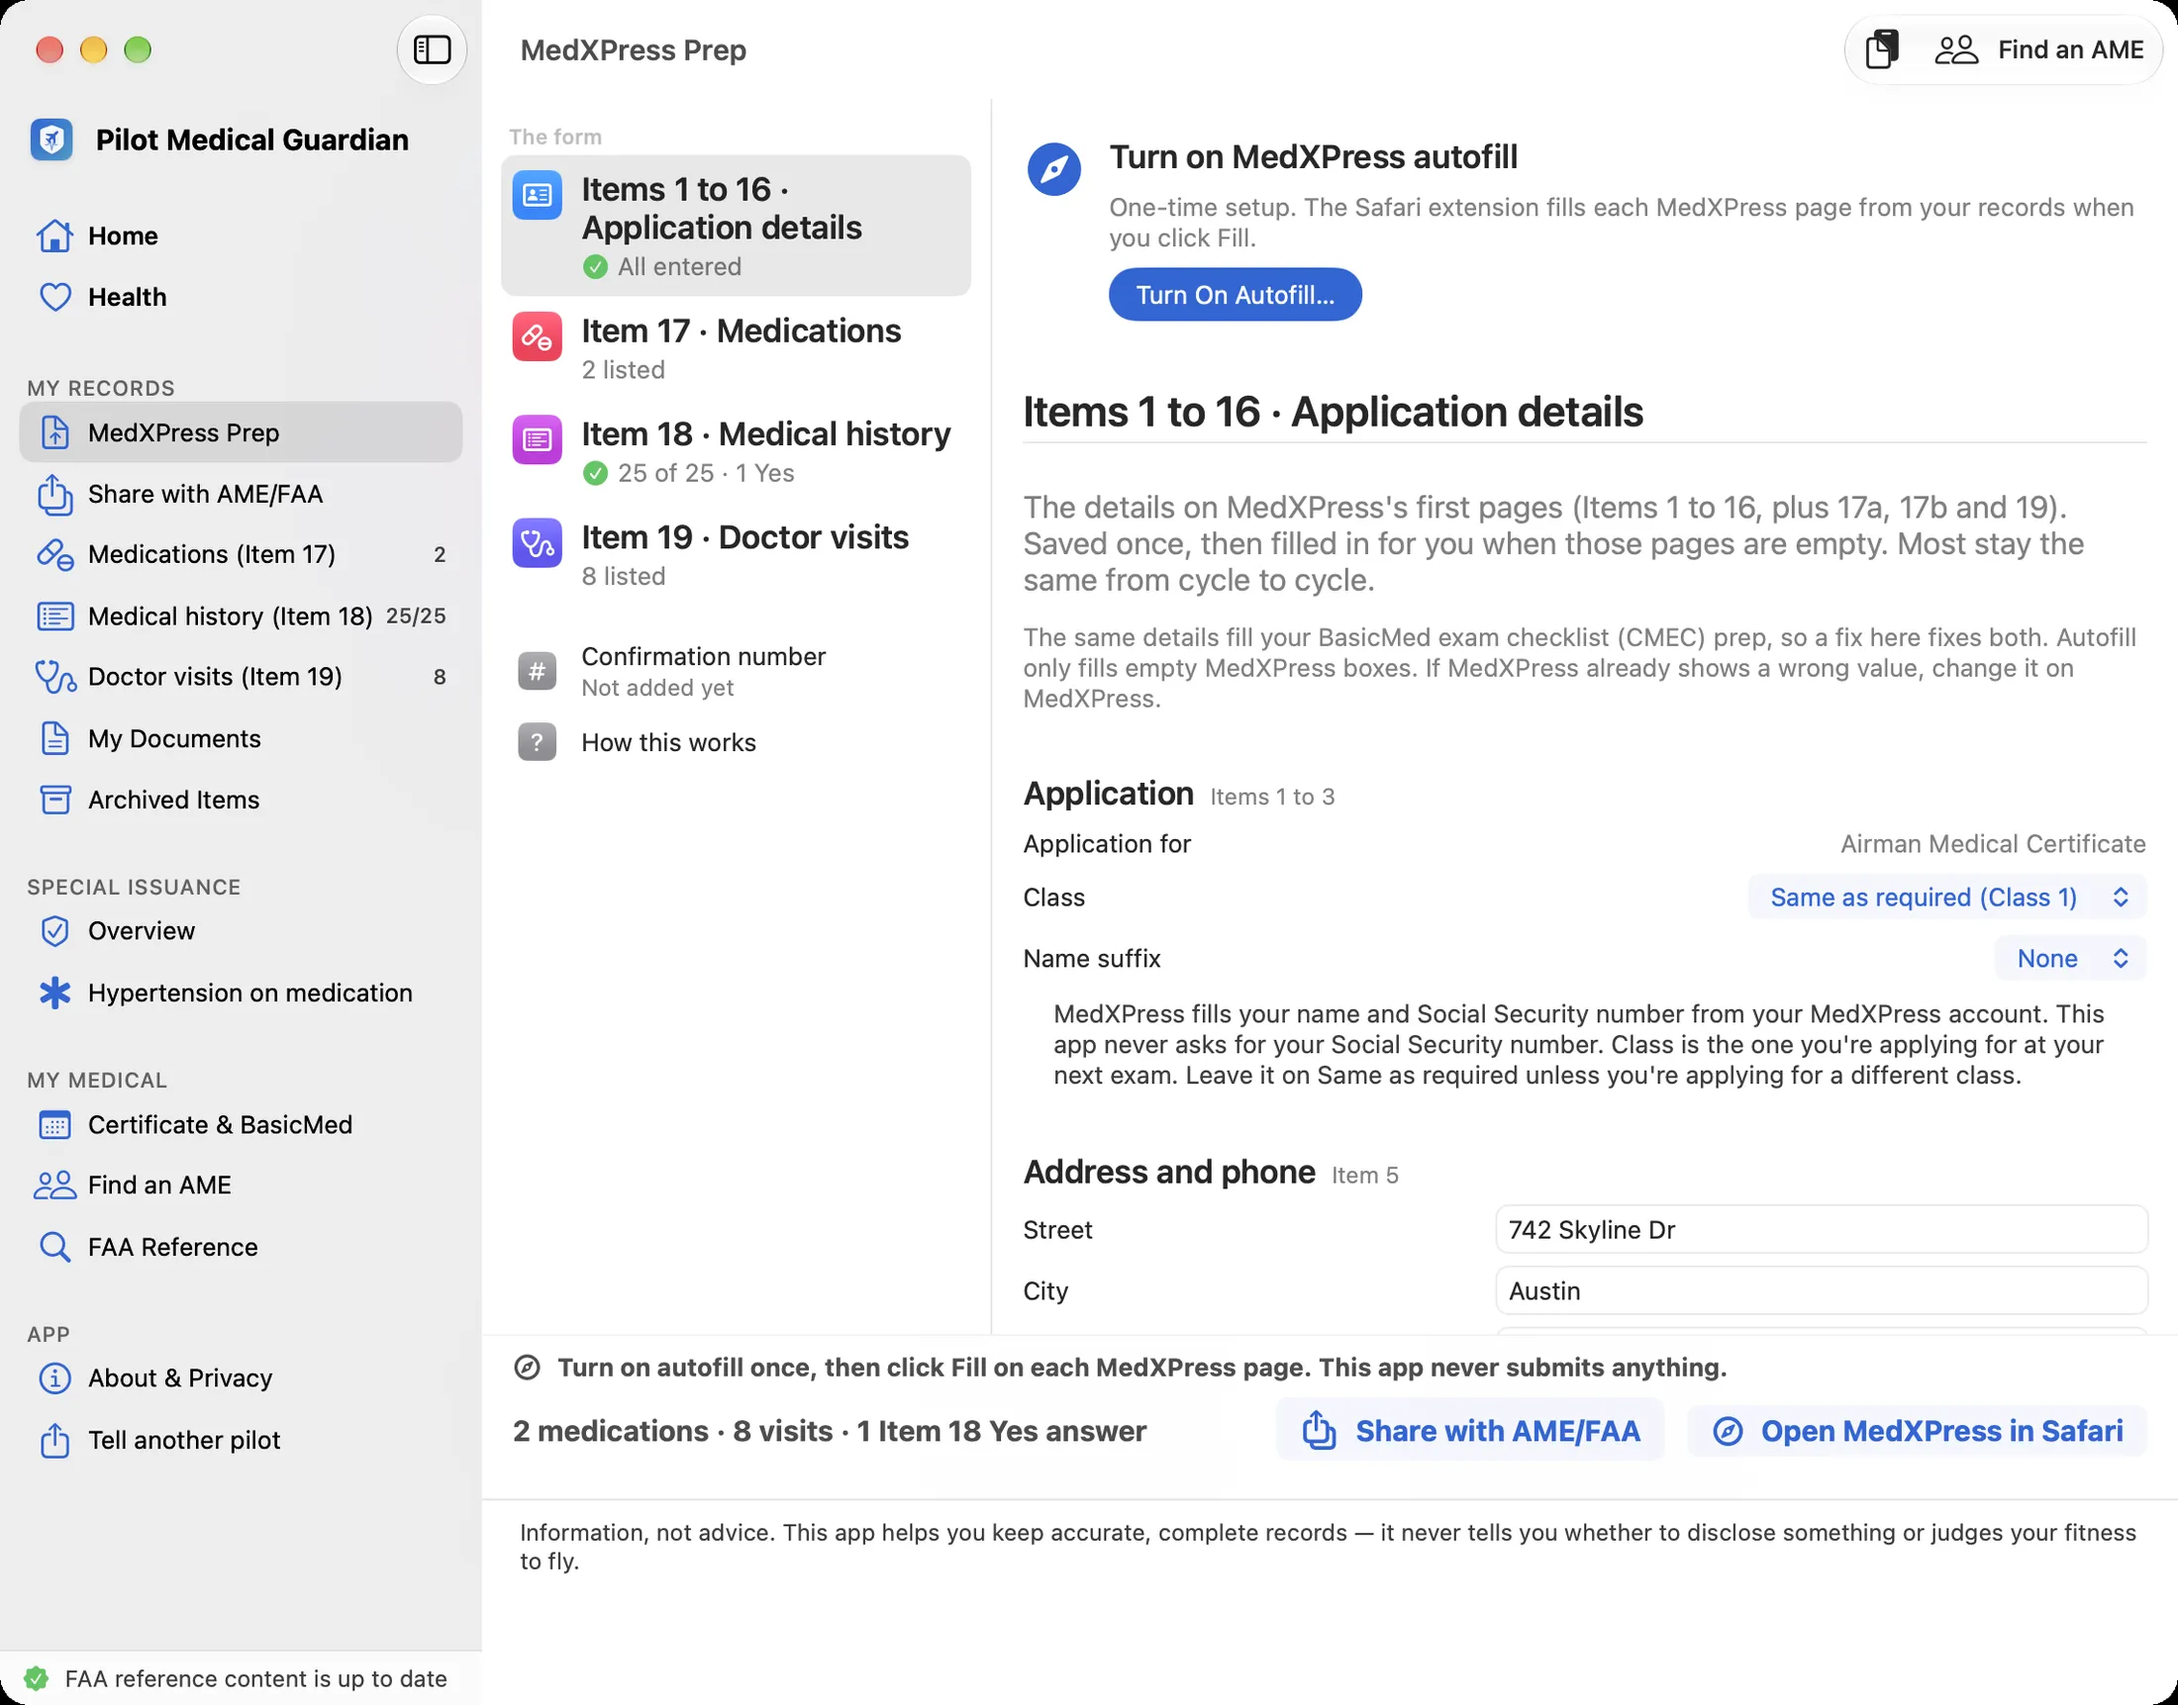
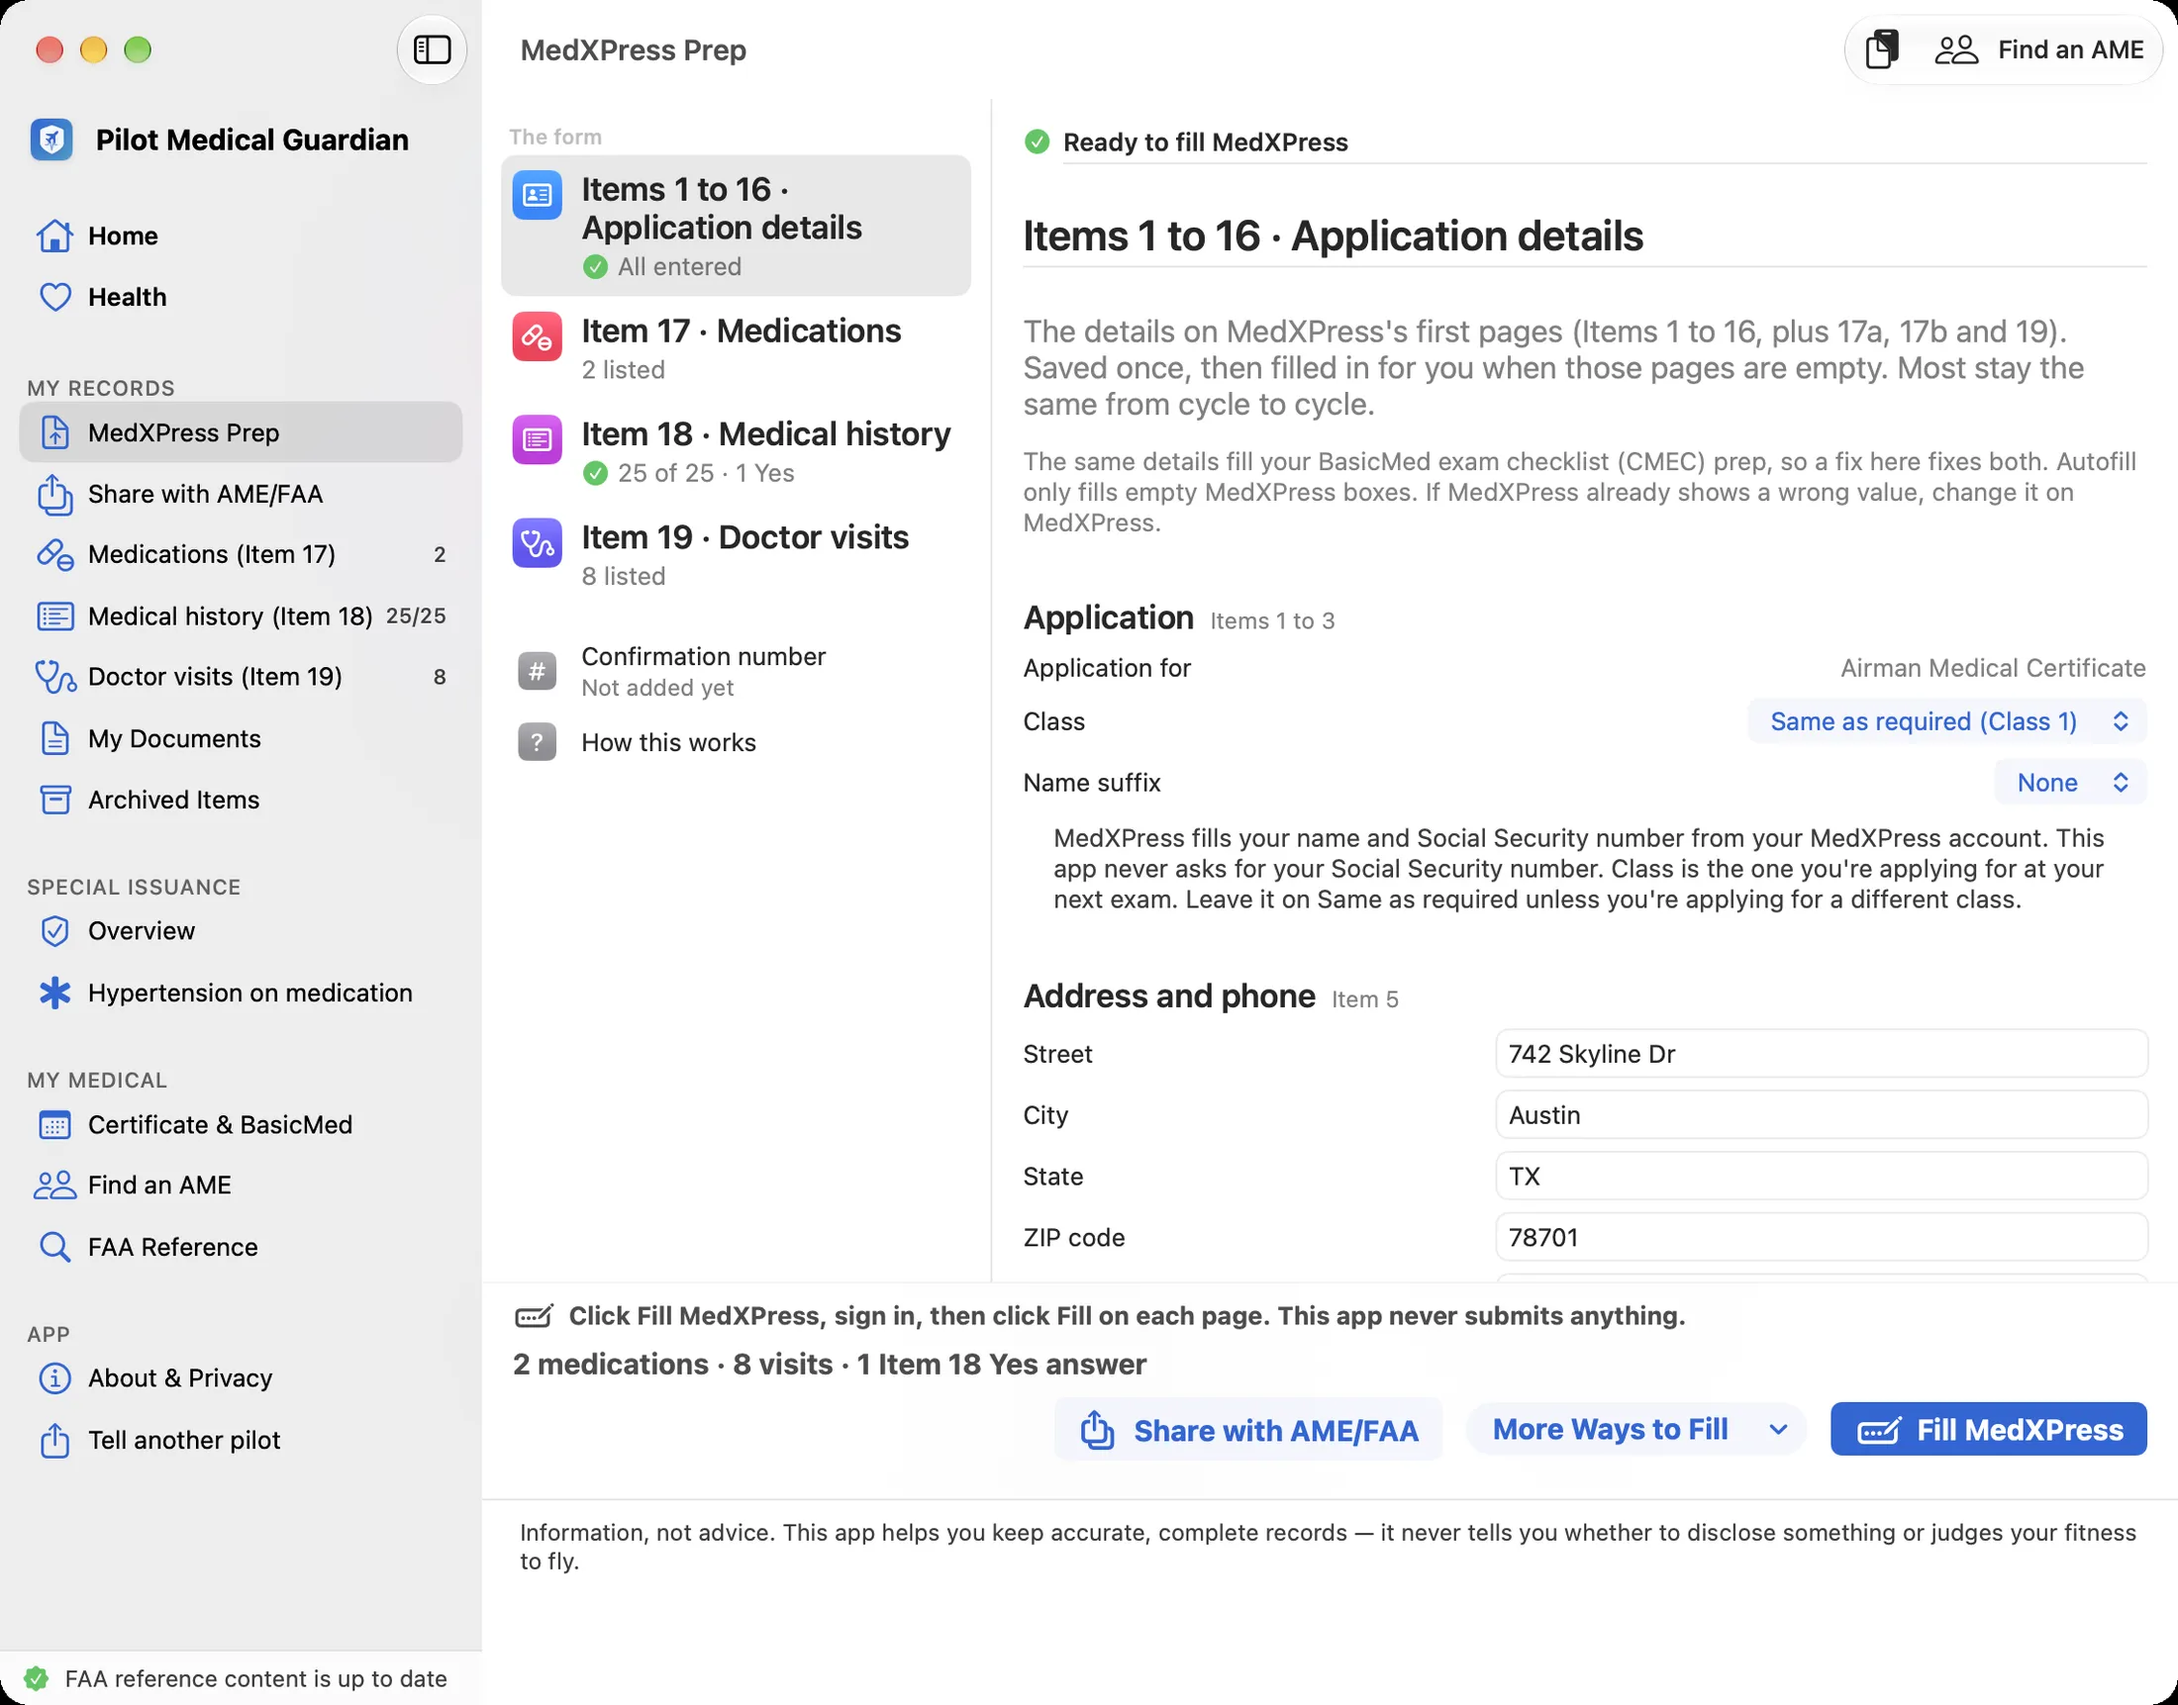
STAGED day one if Mac 1.4.0 is approved first (automatic release; Hub 11/23): privacy in-app card + RevenueCat line, FAQ logout answer, whats-new in-app entry scoped to Mac 1.4.0, that platform's screenshot only. Rest of the site stays Safari-first (still true on both) until both are live, then inap

Changed region(s): [[0.2164, 0.0615, 0.9891, 0.8613]]

diff --git a/privacy.html b/privacy.html
@@ -107,6 +107,11 @@
     </div>
 
     <div class="card">
+      <h3>MedXPress inside the app</h3>
+      <p>Fill MedXPress opens the FAA's own MedXPress website inside the app. You sign in on the FAA's page. Your password goes to the FAA. The app does not read or keep it. When you use Fill from Pilot Medical Guardian on a MedXPress page, the fill script runs on your device. It reads your already-saved records from the app's storage on your device and writes them into the MedXPress form fields. <strong>Nothing is sent to me.</strong> Your MedXPress sign-in, cookies and site storage stay in memory only. They are never saved to your device, and they end when you quit the app or use Erase All Data. Tapping Done does not sign you out. The fill script adds no network requests to the MedXPress page. The FAA page makes the same requests it makes in Safari, including services the FAA itself uses.</p>
+    </div>
+
+    <div class="card">
       <h3>Safari Web Extension (MedXPress autofill)</h3>
       <p>When you enable PMG's optional Safari extension, it runs <strong>only on medxpress.faa.gov</strong>. The extension reads your already-saved records (medications, doctor visits, medical history answers, and the application details you enter for MedXPress's first pages, such as address, phone, date of birth, certificates and flight time) from the same on-device storage as the main app, through Apple's shared App Group mechanism. Your data never transits any server. It writes those records into MedXPress's form fields so you don't have to retype them at every renewal. You can disable the extension any time in Safari's settings; the main app keeps working without it. The extension itself uses no analytics, sends nothing to me, and connects to no third-party service. It only reads your already-saved records and writes them into the MedXPress form fields.</p>
     </div>
@@ -128,7 +133,7 @@
 
     <div class="card">
       <h3>No tracking, no ads, no selling in the app</h3>
-      <p>The app has no advertising and no tracking, and I never sell your data. Not now, not ever. The only outside code in the app is RevenueCat, which runs the Guardian Pro subscription: it receives an anonymous "is this device subscribed?" signal (never any health content, and nothing that identifies you) so Pro unlocks, renewals work, and I can see anonymous, aggregate subscription numbers. That's the one thing the App Store lists as collected. See "Subscriptions &amp; payments" below for exactly what it is and isn't.</p>
+      <p>The app has no advertising and no tracking, and I never sell your data. Not now, not ever. The only outside code built into the app is RevenueCat, which runs the Guardian Pro subscription: it receives an anonymous "is this device subscribed?" signal (never any health content, and nothing that identifies you) so Pro unlocks, renewals work, and I can see anonymous, aggregate subscription numbers. That's the one thing the App Store lists as collected. See "Subscriptions &amp; payments" below for exactly what it is and isn't. When you open MedXPress inside the app, the FAA's page runs the same code it runs in Safari.</p>
       <p><strong>This website</strong>, separate from the app, counts page views using <strong>Cloudflare Web Analytics</strong>. It's cookieless, doesn't follow you across other sites, and doesn't build a profile of you. It tells me which pages get read and roughly what country a visit came from; nothing that identifies you, and it has no access to anything in the app.</p>
       <p style="margin-bottom:0">I'm also running a small paid-search test to see whether ads are a sensible way to reach pilots, so this website currently loads <strong>Google's advertising tag</strong> as well. I'd rather tell you than have you find it. Unlike the Cloudflare counter, it does set cookies and it does let Google connect a visit here to an ad click. That is ordinary ad measurement, and it is the one thing on this site that follows you across sites. It sees pages and clicks on this website only. It has no access to anything in the app, and there is nothing about your health, medications, conditions or documents on this website for it to see: those live on your device and your own iCloud and never reach any web page. If I stop the test, the tag comes off and this paragraph goes with it.</p>
     </div>

diff --git a/index.html b/index.html
@@ -644,10 +644,10 @@
       <div class="section-head">
         <span class="eyebrow">Now on Mac</span>
         <h2>MedXPress is a desktop form. Now there's a Mac app for it.</h2>
-        <p>Most pilots fill out MedXPress sitting at a computer. The Mac app puts your records on that same machine: open the form in Safari, click Fill on each page, and your application details, medications, Item 18 answers and doctor visits drop into the form. You review every line and submit it yourself. On a Windows PC, the Chrome or Edge extension does the same with Guardian Pro (<a href="#windows">below</a>).</p>
+        <p>Most pilots fill out MedXPress sitting at a computer. The Mac app puts your records on that same machine: click Fill MedXPress to open the form inside the app (Safari works too), click Fill on each page, and your application details, medications, Item 18 answers and doctor visits drop into the form. You review every line and submit it yourself. On a Windows PC, the Chrome or Edge extension does the same with Guardian Pro (<a href="#windows">below</a>).</p>
       </div>
       <figure class="macshot">
-        <img src="/screenshots/mac-medxpress.webp?v=20261120" width="2200" height="1723" loading="lazy" decoding="async" alt="Pilot Medical Guardian on macOS showing the MedXPress Prep screen, with the sidebar at left, the Items 1 to 16 tab open on application details and address, and tabs for Items 17, 18 and 19">
+        <img src="/screenshots/mac-medxpress.webp?v=20261122" width="2200" height="1723" loading="lazy" decoding="async" alt="Pilot Medical Guardian on macOS showing the MedXPress Prep screen, with the sidebar at left, the Items 1 to 16 tab open on application details and address, and tabs for Items 17, 18 and 19">
       </figure>
       <div class="macgrid">
         <div class="maccard">

diff --git a/whats-new.html b/whats-new.html
@@ -92,6 +92,7 @@
       <h3>Now in the app</h3>
       <p class="pro-note">Most of this is free: your renewal countdown and reminders, unlimited record-keeping (application details, medications, Item 18 answers, doctor visits), the medication reference, Health, and the AME directory. Your first MedXPress autofill is free for 7 days from your first Fill. After that, autofill every renewal is part of Guardian Pro. The items marked <span class="pro-tag">Guardian Pro</span> are part of the optional subscription.</p>
       <ul>
+        <li><strong>Fill MedXPress, right in the app:</strong> <span class="pro-tag">Guardian Pro</span> one button, Fill MedXPress, opens the FAA's MedXPress site inside the app and fills the form from your records. Nothing to set up first. You sign in on the FAA's page, review every answer and submit it yourself. Safari still works: Fill in Safari is the first choice under More ways to fill, after its one-time setup. On Mac, from version 1.4.0.</li>
         <li><strong>Import your last application:</strong> choose the PDF MedXPress gave you when you submitted, from MedXPress Prep on iPhone and iPad or File &gt; Import MedXPress Application on Mac. You review every row, and nothing is added until you tap Add.</li>
         <li><strong>Save your confirmation number from Safari:</strong> on Mac, Save confirmation number on the MedXPress confirmation page now reaches your iPhone and iPad without opening the Mac app.</li>
         <li><strong>A simpler Mac sidebar:</strong> Application Details is now Items 1 to 16 in MedXPress Prep, and Doctors is a switch at the top of Doctor visits.</li>

diff --git a/faq.html b/faq.html
@@ -373,7 +373,7 @@
 
     <details class="qa">
       <summary>The autofill keeps logging me out of MedXPress. What's wrong?</summary>
-      <p>You're probably in a Safari Private Browsing window. Private tabs don't keep you logged in, so each time you switch back to the app, MedXPress makes you sign in again. Open MedXPress in a normal (non-private) Safari window and it'll stay logged in while you work.</p>
+      <p>Inside the app, your MedXPress sign-in, cookies and site storage stay in memory only. They are never saved to your device, and they end when you quit the app or use Erase All Data. Tapping Done does not sign you out. Once the sign-in ends, MedXPress asks you to sign in again. In Safari, you're probably in a Private Browsing window. Private tabs don't keep you logged in, so each time you switch back to the app, MedXPress makes you sign in again. Open MedXPress in a normal (non-private) Safari window and it'll stay logged in while you work.</p>
     </details>
 
     <h2>Trust &amp; content</h2>
